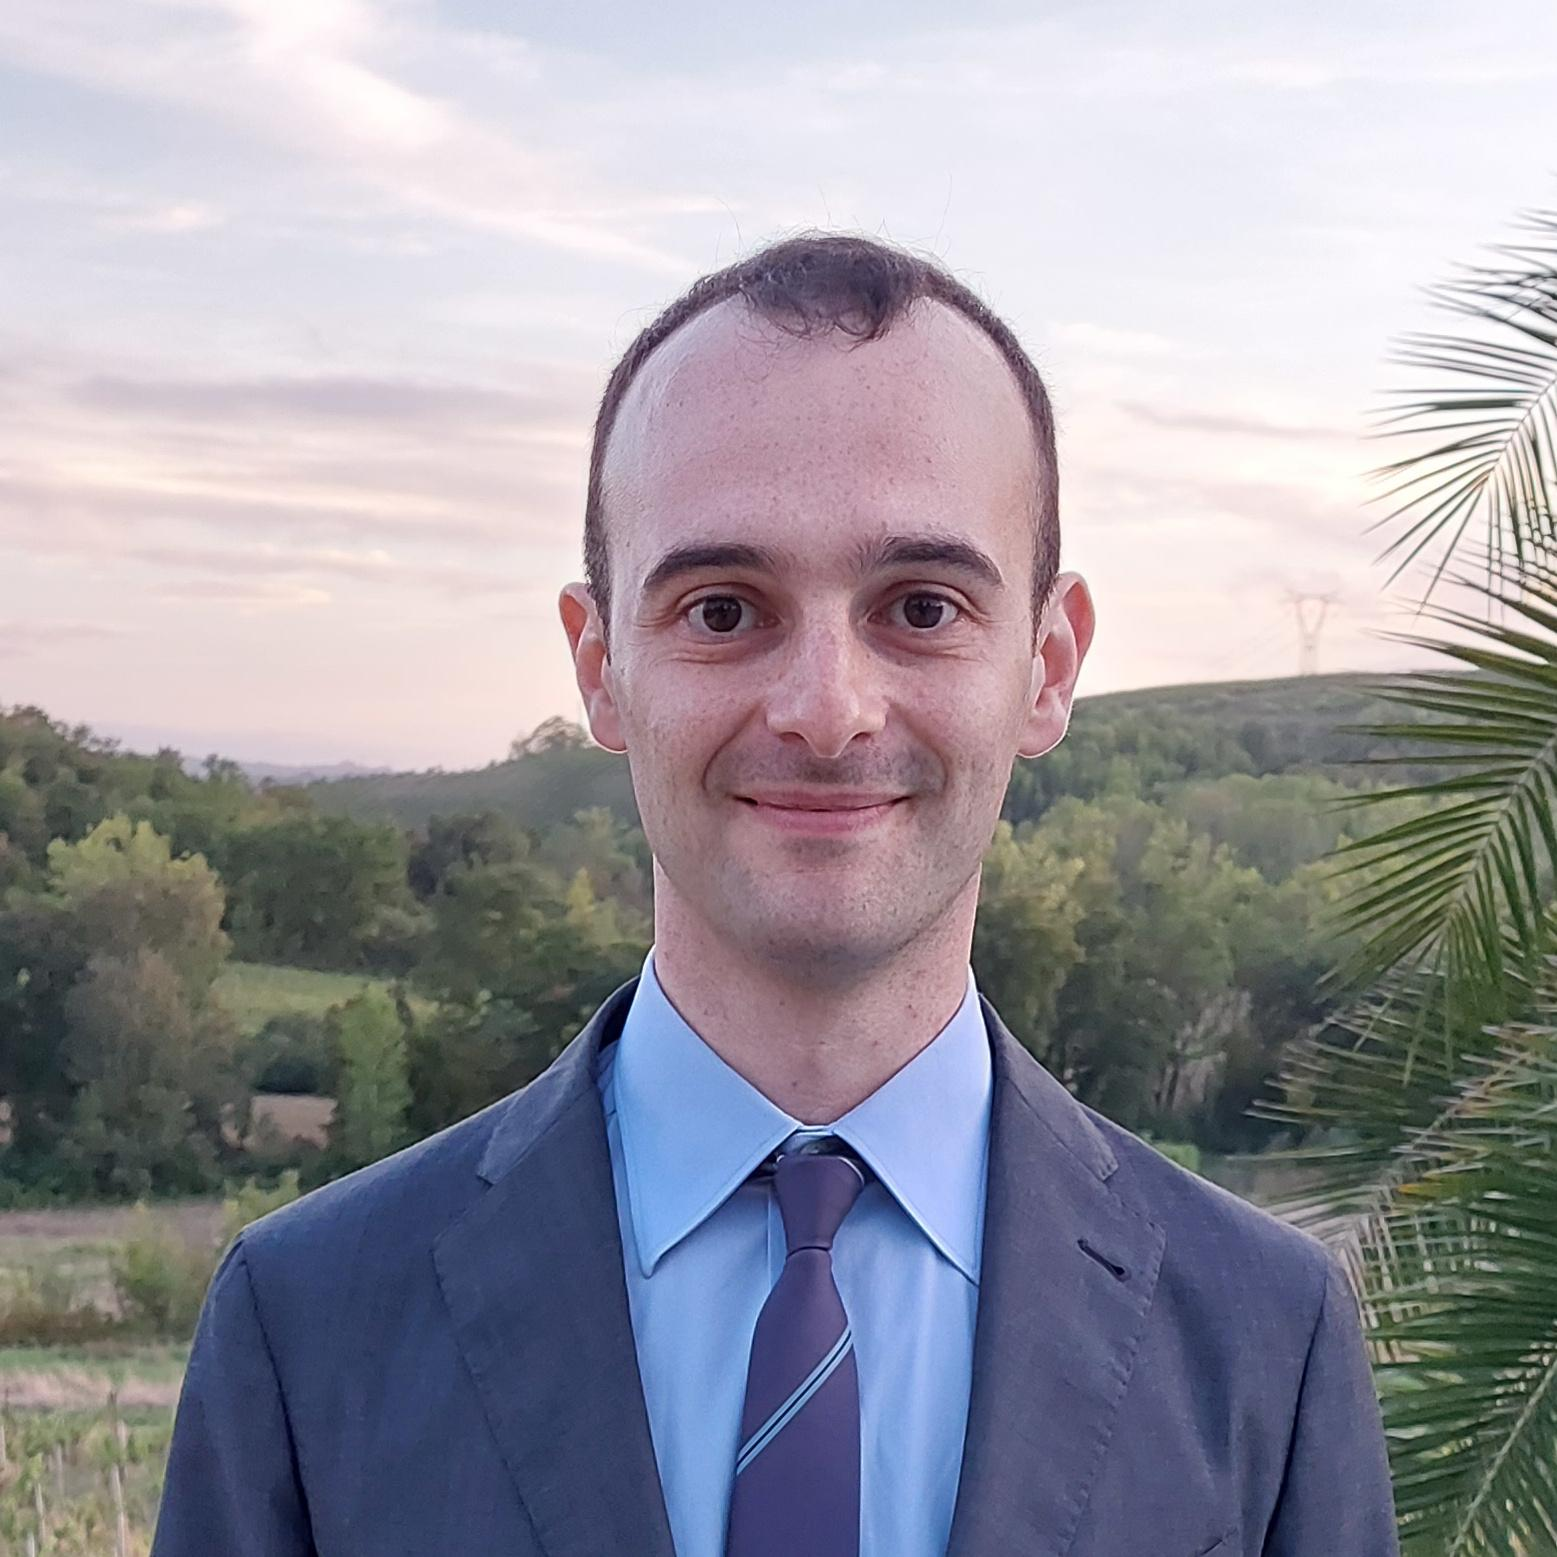
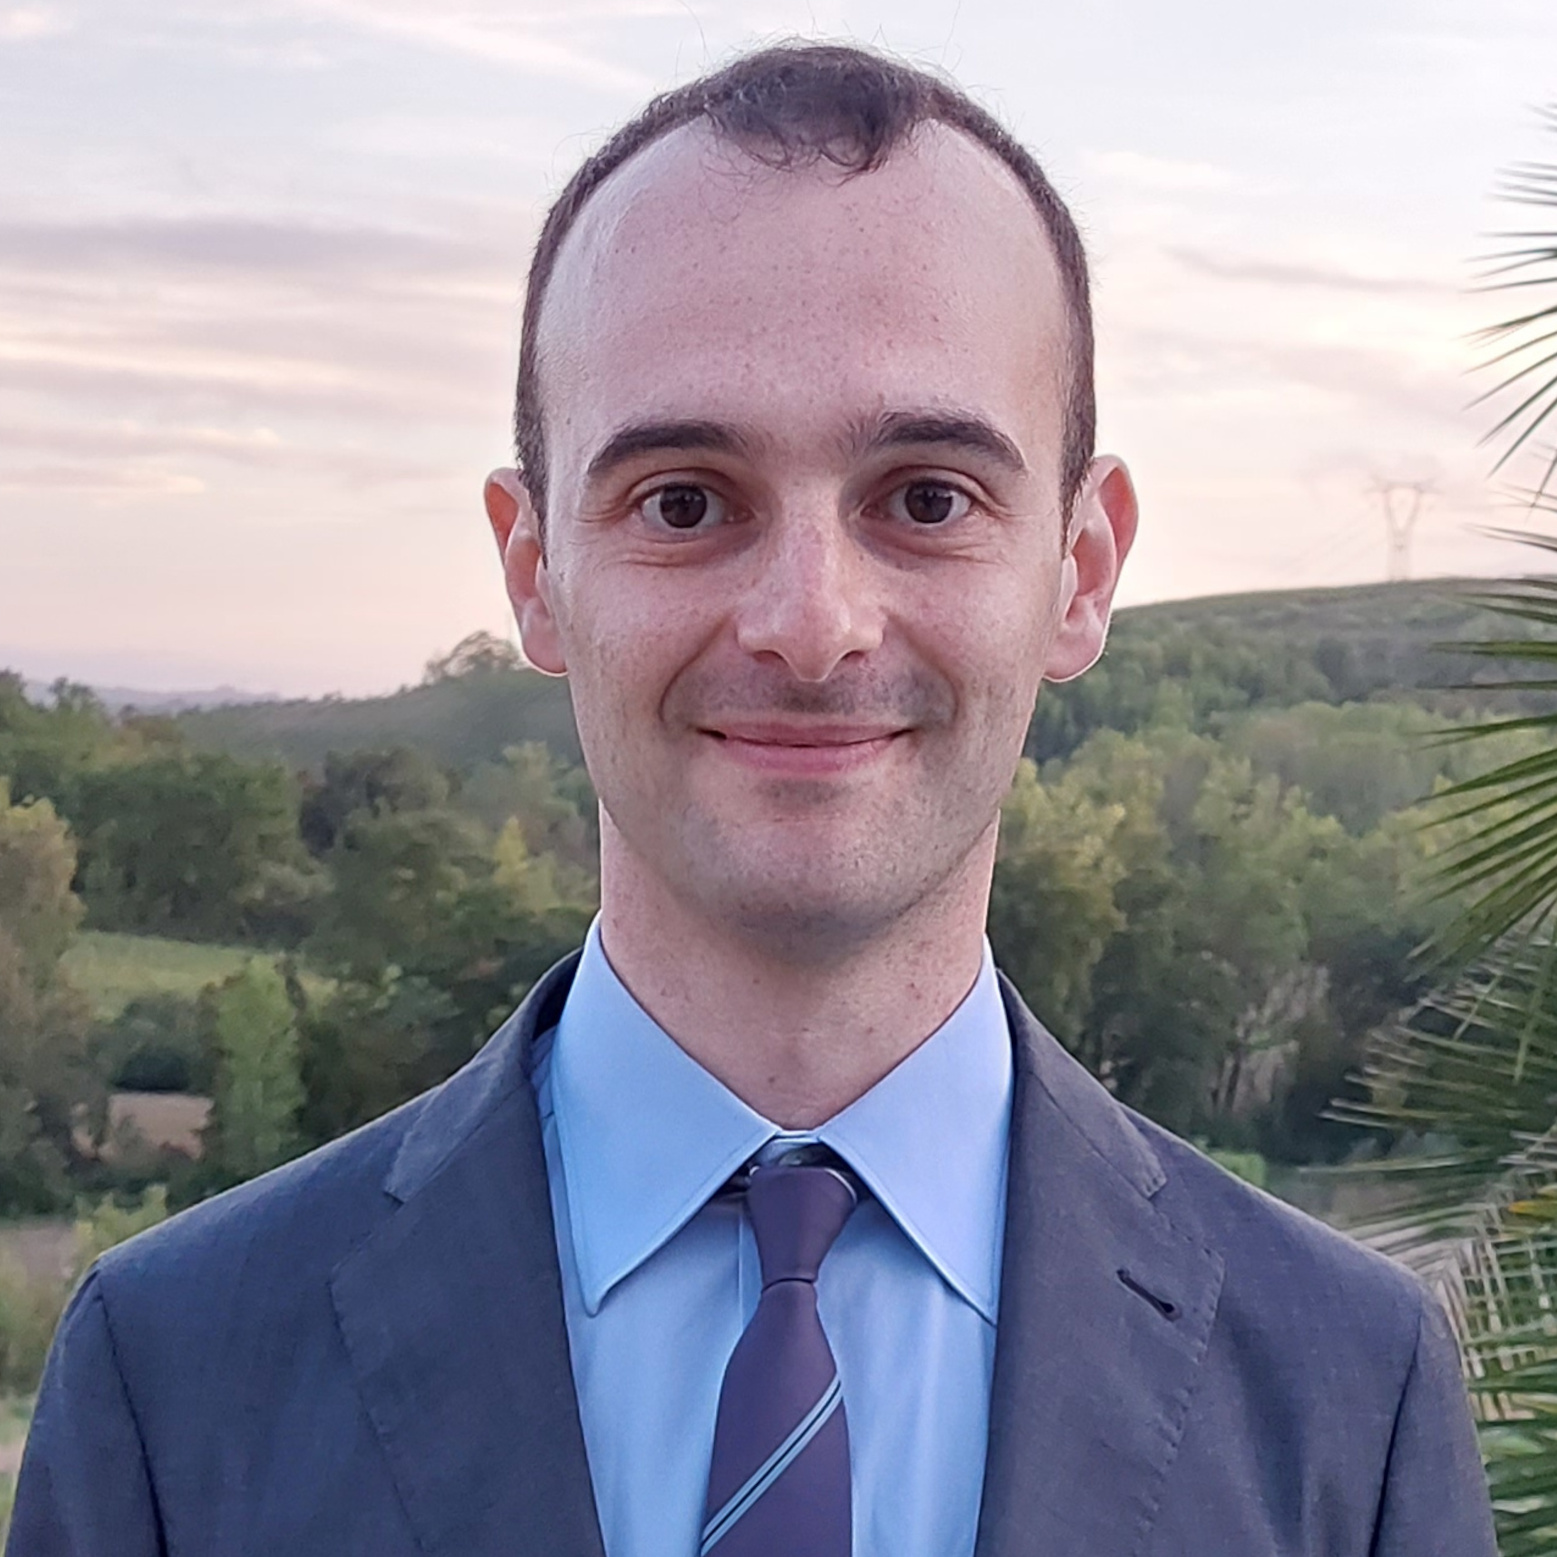
add user image and design

diff --git a/team.html b/team.html
@@ -146,7 +146,7 @@
         <div class="row">
             <div class="col-lg-3 col-md-6 col-12 mt-4 pt-2">
                 <div class="team text-center rounded p-3 py-4">
-                    <img src="https://bootdey.com/img/Content/avatar/avatar7.png" class="img-fluid avatar avatar-medium shadow rounded-pill" alt="">
+                    <img src="assets/img/people/maxparzen_cropped.jpg" class="img-fluid avatar avatar-medium shadow rounded-pill" alt="">
                     <div class="content mt-3">
                         <h4 class="title mb-0">Maximilian Parzen</h4>
                         <small class="text-muted">Founder and Co-director of initiative, hosted at University of Edinburgh</small>
@@ -162,7 +162,7 @@
             
             <div class="col-lg-3 col-md-6 col-12 mt-4 pt-2">
                 <div class="team text-center rounded p-3 py-4">
-                    <img src="https://bootdey.com/img/Content/avatar/avatar1.png" class="img-fluid avatar avatar-medium shadow rounded-pill" alt="">
+                    <img src="assets/img/people/davidefioriti_cropped.jpg" class="img-fluid avatar avatar-medium shadow rounded-pill" alt="">
                     <div class="content mt-3">
                         <h4 class="title mb-0">Prof. Davide Fioriti</h4>
                         <small class="text-muted">Co-director and lead of PyPSA-Earth workflow, hosted at University of Pisa</small>
@@ -176,7 +176,7 @@
             
             <div class="col-lg-3 col-md-6 col-12 mt-4 pt-2">
                 <div class="team text-center rounded p-3 py-4">
-                    <img src="https://bootdey.com/img/Content/avatar/avatar2.png" class="img-fluid avatar avatar-medium shadow rounded-pill" alt="">
+                    <img src="assets/img/people/hazemabdelkhalek_cropped.jpg" class="img-fluid avatar avatar-medium shadow rounded-pill" alt="">
                     <div class="content mt-3">
                         <h4 class="title mb-0">Hazem Abdel-Khalek</h4>
                         <small class="text-muted">Lead of sector-coupling, hosted at Fraunhofer IEG</small>
@@ -190,7 +190,7 @@
             
             <div class="col-lg-3 col-md-6 col-12 mt-4 pt-2">
                 <div class="team text-center rounded p-3 py-4">
-                    <img src="https://bootdey.com/img/Content/avatar/avatar6.png" class="img-fluid avatar avatar-medium shadow rounded-pill" alt="">
+                    <img src="assets/img/people/lukasfranken_cropped.jpg" class="img-fluid avatar avatar-medium shadow rounded-pill" alt="">
                     <div class="content mt-3">
                         <h4 class="title mb-0">Lukas Franken</h4>
                         <small class="text-muted">Lead of AI detection and demand prediction, hosted at University of Edinburgh</small>
@@ -204,7 +204,7 @@
 
             <div class="col-lg-3 col-md-6 col-12 mt-4 pt-2">
                 <div class="team text-center rounded p-3 py-4">
-                    <img src="https://bootdey.com/img/Content/avatar/avatar4.png" class="img-fluid avatar avatar-medium shadow rounded-pill" alt="">
+                    <img src="assets/img/people/stuartjames_cropped.jpg" class="img-fluid avatar avatar-medium shadow rounded-pill" alt="">
                     <div class="content mt-3">
                         <h4 class="title mb-0">Stuart Daniel James</h4>
                         <small class="text-muted">Lead of outreach, hosted at TH Deggendorf</small>
@@ -218,7 +218,7 @@
 
             <div class="col-lg-3 col-md-6 col-12 mt-4 pt-2">
                 <div class="team text-center rounded p-3 py-4">
-                    <img src="https://bootdey.com/img/Content/avatar/avatar5.png" class="img-fluid avatar avatar-medium shadow rounded-pill" alt="">
+                    <img src="assets/img/people/fabianhofmann_cropped.jpg" class="img-fluid avatar avatar-medium shadow rounded-pill" alt="">
                     <div class="content mt-3">
                         <h4 class="title mb-0">Fabian Hofmann</h4>
                         <small class="text-muted">Development coordinator of PyPSA.org, hosted at TU Berlin</small>
@@ -232,7 +232,7 @@
 
             <div class="col-lg-3 col-md-6 col-12 mt-4 pt-2">
                 <div class="team text-center rounded p-3 py-4">
-                    <img src="https://bootdey.com/img/Content/avatar/avatar5.png" class="img-fluid avatar avatar-medium shadow rounded-pill" alt="">
+                    <img src="assets/img/people/fabianneumann_cropped.jpg" class="img-fluid avatar avatar-medium shadow rounded-pill" alt="">
                     <div class="content mt-3">
                         <h4 class="title mb-0">Fabian Neumann</h4>
                         <small class="text-muted">Development coordinator of PyPSA.org, hosted at TU Berlin</small>

diff --git a/index.html b/index.html
@@ -480,12 +480,20 @@
                         <br>
                     </div>
                 </div>
+        </section><!-- End Clients Section -->
+
+        <section id="users" class="users section-user">
             <div class="container my-5">
                 <div class="section-title">
                     <h2 data-aos="fade-in">Our users</h2>
                 </div>
-                <div class="container">
-                    <h2><a href="https://pypsa.readthedocs.io/en/latest/users.html"></a>The industry and research PyPSA ecosystem users are listed in the  <a href="https://pypsa.readthedocs.io/en/latest/users.html"> documentation. </a></h2>   
+                <p style="text-align: center;"><a href="https://pypsa.readthedocs.io/en/latest/users.html"></a>The PyPSA ecosystem is broadly adopted across industry and research.
+                    Some users are listed in the <a href="https://pypsa.readthedocs.io/en/latest/users.html"> documentation</a>.
+                </p>
+                <div class="row">
+                    <div class="col-lg-3 col-1"></div>
+                    <div class="image col d-flex align-items-center justify-content-center" onclick="location.href='https://pypsa.readthedocs.io/en/latest/users.html';" style="cursor: pointer;"></div>
+                    <div class="col-lg-3 col-1"></div>
                 </div>
             </div>
         </section>

diff --git a/support_us_developer.html b/support_us_developer.html
@@ -137,7 +137,7 @@
             <div class="section-title">
                 <h2 data-aos="fade-in">Are you developer/researcher?</h2>
                 <p style="padding:20px;">
-                    <h4 font-style="">
+                    <h5 font-style="">
                         If you are a developer or researcher the best way to support us is to get actively involved.
                         We can offer you to follow, join and lead activities that are sustainable and make impact around the world.
                         You will benefit from our network, our existing development experience and regular open exchanges.
@@ -146,7 +146,7 @@
                         Join the free and open <a href="https://discord.gg/AnuJBk23FU">PyPSA-Earth Discord server.</a>
                         Here you can introduce yourself, your interest and your goals. We are happy to guide you from there.
                         It's perfectly possible to combine research work with development of an open-source project. Just have a look on <a href="https://pypsa-meets-earth.readthedocs.io/en/latest/talks_and_papers.html#id3">PyPSA publications list</a>.
-                    </h4>             
+                    </h5>             
                     <img src="/assets/img/support_us/annie-spratt.jpg" alt="https://unsplash.com/photos/QckxruozjRg">
                 </p>
             </div>

diff --git a/support_us_funder.html b/support_us_funder.html
@@ -137,7 +137,7 @@
             <div class="section-title">
                 <h2 data-aos="fade-in">Are you funding-provider?</h2>
                 <p style="padding:20px;">
-                    <h4 font-style="">
+                    <h5 font-style="">
                         As funder you can create with us projects or support existing ones. Your support will accelerate
                         and cost-optimize the world’s transition to sustainable, accessible and reliable energy.
                         Benefit from our experience to execute, manage and lead projects on the highest open-source and open data projects.
@@ -149,7 +149,7 @@
                         <a href="https://pypsa.readthedocs.io/en/latest/users.html"> in the documentation</a>. While the documentation
                         list projects, we also offer on-demand training and support e.g. new modelling teams.
                         Let's talk and see if we can help you achieving your goals in the most effective way.
-                    </h4>            
+                    </h5>            
                 </p>
                 <img src="/assets/img/support_us/krakenimages.jpg" alt="https://unsplash.com/photos/Y5bvRlcCx8k">
             </div>

diff --git a/assets/css/style.css b/assets/css/style.css
@@ -428,6 +428,10 @@ section {
     background: linear-gradient(180deg, #f2f6fa 0%, #fff 100%);
 }
 
+.section-user {
+  padding: 0px 0;
+}
+
 .section-pic {
     background: url("../img/custom/red_sea.jpg") center center no-repeat;
     background-size: cover;
@@ -608,6 +612,51 @@ section {
     .about .image img {
         max-width: 100%;
     }
+}
+
+/*--------------------------------------------------------------
+# Users
+--------------------------------------------------------------*/
+
+.users .content {
+  padding: 0px 0;
+}
+
+.users .content {
+  padding: 30px 0;
+}
+
+.users .content h3 {
+  font-weight: 700;
+  font-size: 34px;
+  color: #213b52;
+}
+
+.users .content p {
+  margin-bottom: 0;
+}
+
+.users .image {
+  background-image: url("../img/userlist-extended-compact.png");
+  background-size: contain;
+  background-repeat: no-repeat;
+  background-position: center;
+  min-height: 380px;
+}
+
+.users .image img{
+  max-width: 100%;
+  max-height: 100%;
+  height: 333px;
+  width: 660px;
+}
+
+@media (max-width: 490px) {
+  .users .image {
+      max-width: 100%;
+      max-height: 100%;
+      min-height: 200px;
+  }
 }
 
 

diff --git a/support_us_group_leader.html b/support_us_group_leader.html
@@ -137,7 +137,7 @@
             <div class="section-title">
                 <h2 data-aos="fade-in">Are you group leader?</h2>
                 <p style="padding:20px;">
-                    <h4 font-style="">
+                    <h5 font-style="">
                         As a group leader you have an opportunity to collaborate with our community of developers and researchers.
                         Let your team members join our activities and build up leadership in certain aspects.
                         You can also host open-source projects if they align with needs of the initiative.
@@ -149,7 +149,7 @@
                         <br>
                         Join the free and open <a href="https://discord.gg/AnuJBk23FU">PyPSA-Earth Discord server.</a>
                         Here you can introduce yourself, your interest and your goals. We are happy to guide you from there.
-                    </h4>
+                    </h5>
                     <img src="/assets/img/support_us/team-success.jpg" alt="https://unsplash.com/photos/WJPHTJEtgzw">
                 </p>
             </div>

diff --git a/results.html b/results.html
@@ -152,7 +152,7 @@
                     <p>
                         - Maximilian Parzen (l), Founder and Co-Director of the PyPSA meets Earth initiative,
                         <br>
-                        Prof. Davide Fioriti (r), Co-Director of the PyPSA meets Earth initiative -
+                        Prof. Davide Fioriti (r), Co-Director of the PyPSA meets Earth initiative
                     </p>
                     <img src="/assets/img/people/maxparzen_cropped.jpg" style=height:180px alt="Max Parzen image"> 
                     <img src="/assets/img/people/davidefioriti_cropped.jpg" style=height:180px alt="Max Parzen image">               

diff --git a/assets/img/people/crop-image-center.py b/assets/img/people/crop-image-center.py
@@ -1,0 +1,30 @@
+#!/usr/bin/env python3
+# -*- coding: utf-8 -*-
+"""
+Created on Tue Oct 19 15:08:48 2021
+
+@author: fabian
+"""
+
+from PIL import Image
+import os
+
+def centercrop(path):
+    im = Image.open(path)
+    width, height = im.size   # Get dimensions
+
+    new_width = new_height = min(height, width)
+
+    left = (width - new_width)/2
+    top = (height - new_height)/2
+    right = (width + new_width)/2
+    bottom = (height + new_height)/2
+
+    # Crop the center of the image
+    return im.crop((left, top, right, bottom))
+
+
+for path in ['hazemabdelkhalek.jpeg']:
+    name = path.split('.')[0]
+    path = os.path.join(os.getcwd(), path)
+    centercrop(path).save(name+'_cropped.jpg')
